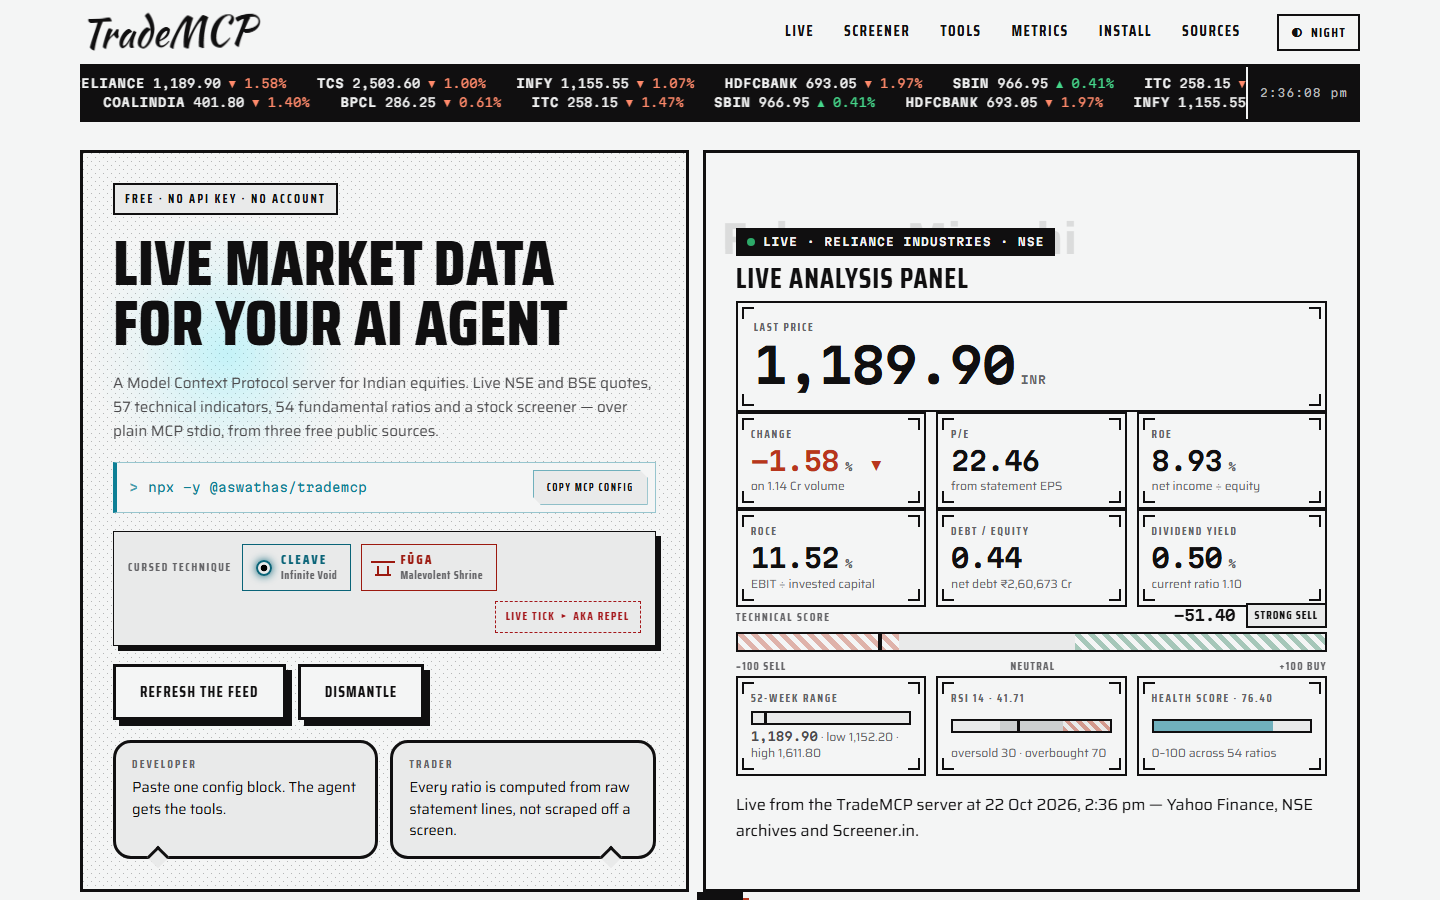
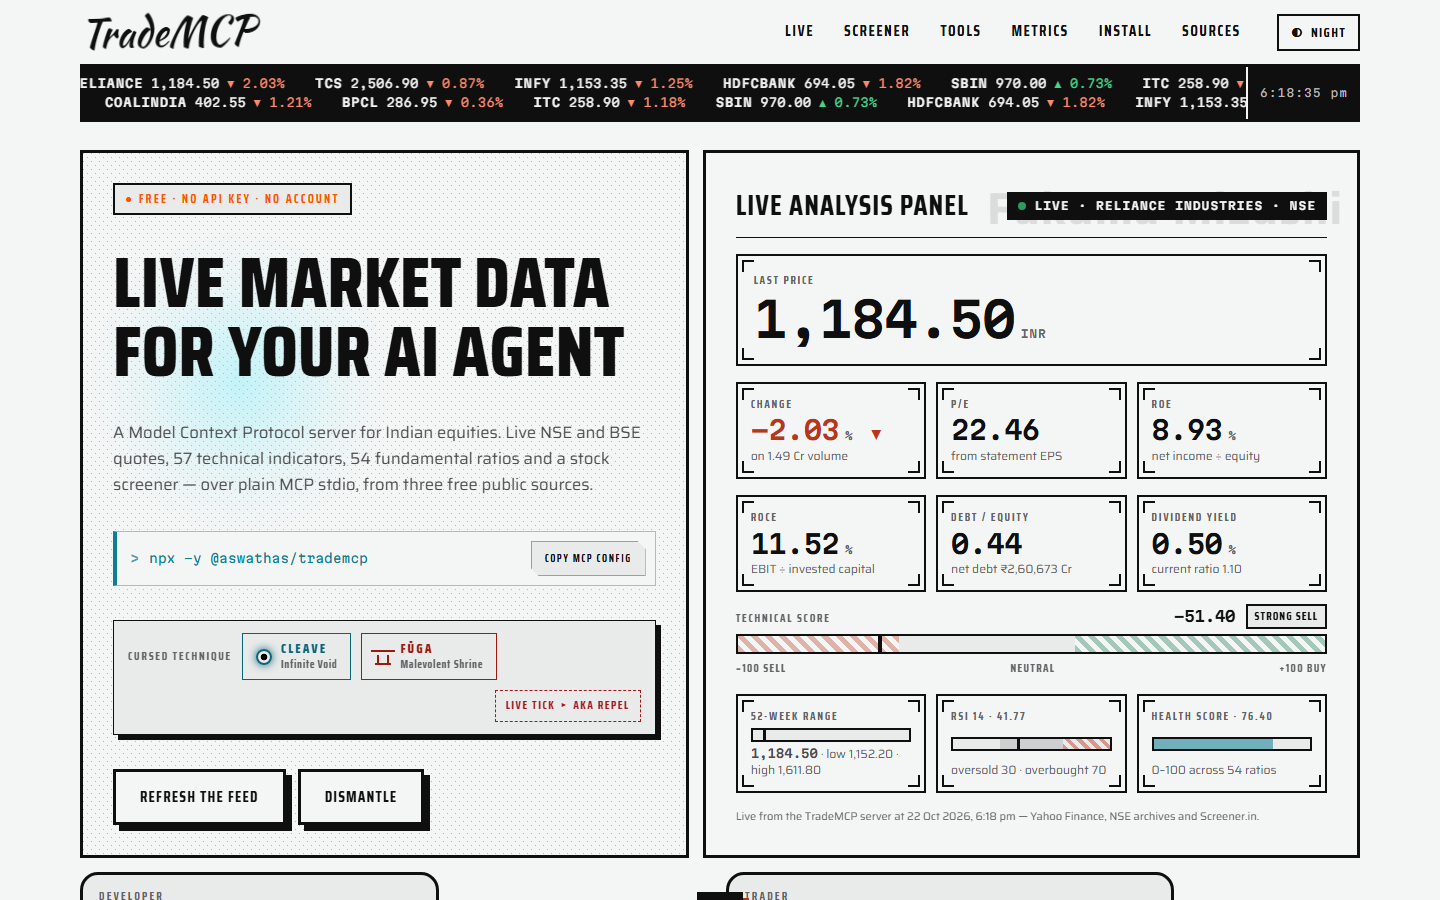
Rebuild the hero to the mockup: full-bleed roof, bracket frames, and a HUD that fills its panel
- The HUD panel rule was scoped to the night theme by a stray [data-theme] prefix,
  so paper/void/shrine stacked their rows with zero gap and left ~77px of dead
  space under the footnote. The panel is a flex column in every theme now, with
  space-between so it fills the box the grid gives it.
- The watermark is an inscription carved into the wall behind the panel, so it
  stays out of the flow in every theme instead of taking a row of the column.
- Shrine: the price band grows to clamp(124px, 10vw, 150px) so the maw holds the
  number the way the reference does; the column tightens to a 10px gap.
- Hero: the roof spans both boxes full-bleed, corner brackets frame the hero
  box, the free badge gets its own treatment, and the balloons move under the
  splash so the two panels share a row and a height.

diff --git a/showcase/site/styles.css b/showcase/site/styles.css
@@ -147,6 +147,12 @@ label[for],
   padding: var(--panel-pad);
 }
 
+.caption--badge {
+  background: #1a080c;
+  border-color: rgba(255, 85, 0, 0.6);
+  color: #ff5500;
+}
+
 .caption {
   display: inline-block;
   font-family: var(--font-ui);
@@ -259,8 +265,9 @@ label[for],
 .panel--hero {
   display: flex;
   flex-direction: column;
-  gap: 18px;
+  gap: 26px;
   align-items: flex-start;
+  justify-content: space-between;
 }
 
 /* Two lines, one face, no badge. The line break is set in the markup so the
@@ -268,7 +275,7 @@ label[for],
 .hero-title {
   font-family: var(--font-display);
   font-weight: 800;
-  font-size: clamp(34px, 4.7vw, 64px);
+  font-size: clamp(34px, 5vw, 72px);
   line-height: 0.95;
   letter-spacing: 0.004em;
   text-transform: uppercase;
@@ -288,7 +295,7 @@ label[for],
 .sfx--up { font-size: 0.52em; vertical-align: 0.55em; margin-right: 6px; }
 
 .hero-lede {
-  font-size: clamp(14.5px, 1.05vw, 16px);
+  font-size: clamp(15px, 1.15vw, 16.5px);
   line-height: 1.58;
   color: var(--ink-2);
   max-width: 54ch;
@@ -354,6 +361,11 @@ label[for],
   width: 100%;
   justify-items: start;
 }
+/* under the splash they are a full-width row, not the left box's tail */
+.splash > .balloons {
+  grid-column: 1 / -1;
+  margin-top: 0;
+}
 
 .balloon {
   position: relative;
@@ -391,14 +403,20 @@ label[for],
 }
 .balloon--trader::after { left: auto; right: 34px; }
 
-[data-theme="night"] /* ---------- HUD panel ---------------------------------------------------- */
+/* ---------- HUD panel ---------------------------------------------------- */
 
+/* The analysis panel is a column in every theme: the rows stack with a real
+   gap instead of butting together, and space-between spreads them so the
+   column fills the panel the grid gives it. */
 .panel--hud {
-  background-image: var(--plate-tone-light);
-  background-size: 8px 8px;
   display: flex;
   flex-direction: column;
   gap: 16px;
+  justify-content: space-between;
+}
+[data-theme="night"] .panel--hud {
+  background-image: var(--plate-tone-light);
+  background-size: 8px 8px;
 }
 
 .hud-tag {
@@ -426,6 +444,20 @@ label[for],
   animation: pulse 1.9s ease-in-out infinite;
 }
 @keyframes pulse { 0%, 100% { opacity: 1; } 50% { opacity: 0.25; } }
+
+/* the card header: one row, the title on the left and the feed state on
+   the right, the way the reference draws it */
+.hud-head {
+  display: flex;
+  align-items: center;
+  justify-content: space-between;
+  gap: 12px;
+  flex-wrap: wrap;
+  padding-bottom: 9px;
+  border-bottom: 1px solid var(--rule);
+}
+.hud-head .hud-tag { align-self: center; }
+.hud-head .hud-title { min-width: 0; }
 
 .hud-title {
   font-family: var(--font-ui);
@@ -2099,9 +2131,11 @@ html.is-flat .panel--hud { transform: none; }
   z-index: 0;
 }
 [data-theme="shrine"] .eaves { opacity: 0.55; }
-[data-theme="shrine"] .panel--hud { padding-top: 46px; }
+[data-theme="shrine"] .panel--hud { padding-top: 46px; gap: 10px; }
 .panel--hud { position: relative; overflow: hidden; }
-.panel--hud > *:not(.eaves) { position: relative; z-index: 1; }
+/* the watermark is an inscription carved into the wall behind the panel, so it
+   must stay out of the flow - otherwise it takes a row of the column */
+.panel--hud > *:not(.eaves):not(.watermark) { position: relative; z-index: 1; }
 
 /* the ritual score keeps its own name inside the shrine */
 [data-theme="shrine"] .hud-label--score::before { content: "Ritual · "; }
@@ -2291,7 +2325,7 @@ html.is-cast .panel--hero { animation: cast-flash 800ms ease-out; }
 }
 [data-theme="shrine"] .shrine-scrim { opacity: 1; }
 .panel--hero { position: relative; overflow: hidden; }
-.panel--hero > *:not(.shrine-gate):not(.void-core):not(.void-space):not(.shrine-scrim) { position: relative; z-index: 1; }
+.panel--hero > *:not(.shrine-gate):not(.void-core):not(.void-space):not(.shrine-scrim):not(.shrine-brackets) { position: relative; z-index: 1; }
 
 /* the tape keeps the page's own darkness instead of flipping to a light bar */
 [data-theme="void"] .tape,
@@ -3008,11 +3042,11 @@ html.is-cut .cut::after { animation: cut-slash 620ms ease-out forwards; }
   width: 100vw;
   max-width: none;
   height: auto;
-  max-height: 40vh;
-  margin: 0 0 -44px;
+  max-height: 262px;
+  margin: 0 0 -30px;
   margin-left: calc(50% - 50vw);
   object-fit: cover;
-  object-position: 50% 34%;
+  object-position: 50% 28%;
   z-index: 20;
   pointer-events: none;
   user-select: none;
@@ -3031,7 +3065,7 @@ html.is-cut .cut::after { animation: cut-slash 620ms ease-out forwards; }
   align-items: stretch;
   gap: 10px;
   width: 100%;
-  padding: 7px 7px 7px 12px;
+  padding: 9px 9px 9px 13px;
   background: var(--paper);
   border: 1px solid var(--tone);
   border-color: color-mix(in srgb, var(--cyan) 40%, transparent);
@@ -3173,16 +3207,17 @@ html.is-cut .cut::after { animation: cut-slash 620ms ease-out forwards; }
    left and right edges, so the number is held between the teeth instead of
    sitting on top of them. */
 [data-theme="shrine"] .hud-readout.hud-readout--hero {
-  aspect-ratio: 1600 / 665;
+  height: clamp(124px, 10vw, 150px);
   padding: 0 var(--panel-pad);
   justify-content: center;
+  gap: 2px;
 }
 [data-theme="shrine"] .hud-readout--hero > .shrine-fangs {
   position: absolute;
   top: 50%;
   left: 50%;
   transform: translate(-50%, -50%);
-  width: calc(100% + 2 * (var(--panel-pad) - 8px));
+  width: calc(100% + 2 * (var(--panel-pad) - 6px));
   height: 100%;
   object-fit: fill;
   object-position: 50% 50%;
@@ -3210,7 +3245,7 @@ html.is-cut .cut::after { animation: cut-slash 620ms ease-out forwards; }
 [data-theme="shrine"] .hud-readout {
   background: #130c0f;
   border: 1px solid rgba(229, 9, 20, 0.3);
-  padding: 22px 16px 23px;
+  padding: 11px 13px 12px;
 }
 [data-theme="shrine"] .hud-label {
   font-size: 10px;
@@ -3218,6 +3253,24 @@ html.is-cut .cut::after { animation: cut-slash 620ms ease-out forwards; }
   color: #8d8386;
 }
 [data-theme="shrine"] .hud-value { color: #f5f2eb; }
+[data-theme="shrine"] .hud-head { border-bottom-color: rgba(229, 9, 20, 0.4); }
+[data-theme="shrine"] .hud-head .hud-tag {
+  background: none;
+  color: #ff7a4d;
+  border: 1px solid rgba(229, 9, 20, 0.5);
+  padding: 4px 9px;
+  font-size: 10px;
+}
+[data-theme="shrine"] .hud-row--bars { gap: 8px; }
+[data-theme="shrine"] .hud-readout--bar { padding: 9px 11px 10px; }
+[data-theme="shrine"] .hud-note { font-size: 11px; }
+.hud-foot {
+  margin: 0;
+  font-family: var(--font-body);
+  font-size: 11px;
+  line-height: 1.4;
+  color: var(--ink-3);
+}
 
 /* ---------- the cursed technical score ---------------------------------- */
 [data-theme="shrine"] .gauge {

diff --git a/showcase/site/index.html b/showcase/site/index.html
@@ -70,7 +70,8 @@
           </g>
         </svg>
         <span class="shrine-scrim" aria-hidden="true"></span>
-        <span class="caption">FREE · NO API KEY · NO ACCOUNT</span>
+        <span class="shrine-brackets" aria-hidden="true"><i></i><i></i><i></i><i></i></span>
+        <span class="caption caption--badge">● FREE · NO API KEY · NO ACCOUNT</span>
         <h1 class="hero-title" id="hero-title">
           LIVE MARKET DATA<br>FOR YOUR AI AGENT
         </h1>
@@ -109,17 +110,6 @@
           </button>
           <button class="btn btn--dismantle" type="button" id="dismantle-btn">Dismantle</button>
         </div>
-
-        <div class="balloons">
-          <p class="balloon balloon--dev">
-            <span class="balloon__who">Developer</span>
-            Paste one config block. The agent gets the tools.
-          </p>
-          <p class="balloon balloon--trader">
-            <span class="balloon__who">Trader</span>
-            Every ratio is computed from raw statement lines, not scraped off a screen.
-          </p>
-        </div>
       </div>
 
       <div class="panel panel--hud" aria-labelledby="hud-title">
@@ -133,8 +123,10 @@
           <path d="M280 46 V84" />
           <path d="M20 84 H400" />
         </svg>
-        <span class="hud-tag" id="hud-tag"><span class="hud-dot" aria-hidden="true"></span><span id="hud-tag-text">LIVE · RELIANCE INDUSTRIES · NSE</span></span>
-        <h2 class="hud-title" id="hud-title">Live analysis panel</h2>
+        <div class="hud-head">
+          <h2 class="hud-title" id="hud-title">Live analysis panel</h2>
+          <span class="hud-tag" id="hud-tag"><span class="hud-dot" aria-hidden="true"></span><span id="hud-tag-text">LIVE · RELIANCE INDUSTRIES · NSE</span></span>
+        </div>
 
         <div class="hud-readout hud-readout--hero">
           <img class="shrine-fangs" src="assets/shrine/shrine-fang-frame.webp" alt="" aria-hidden="true" draggable="false" style="position:absolute">
@@ -220,6 +212,17 @@
         </div>
 
         <p class="hud-foot" id="hud-foot">Snapshot captured 21 Oct 2026, 03:20 IST from Yahoo Finance, NSE archives and Screener.in.</p>
+      </div>
+
+      <div class="balloons">
+        <p class="balloon balloon--dev">
+          <span class="balloon__who">Developer</span>
+          Paste one config block. The agent gets the tools.
+        </p>
+        <p class="balloon balloon--trader">
+          <span class="balloon__who">Trader</span>
+          Every ratio is computed from raw statement lines, not scraped off a screen.
+        </p>
       </div>
     </section>
 
